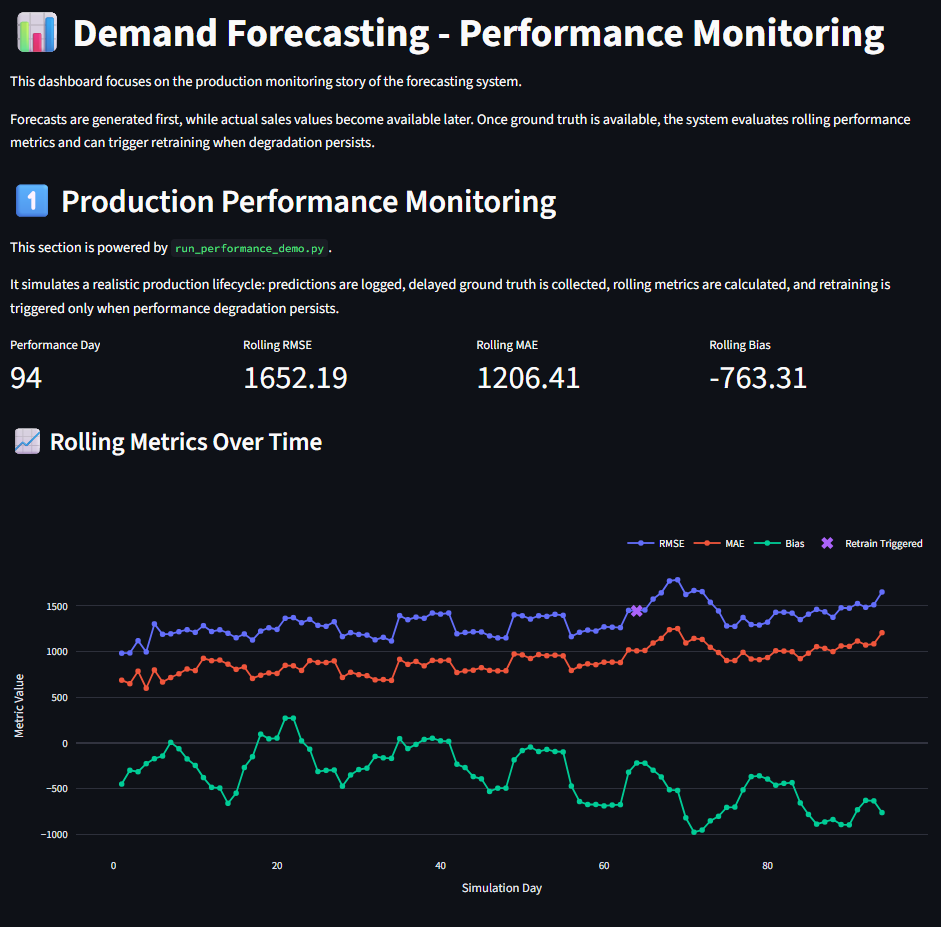
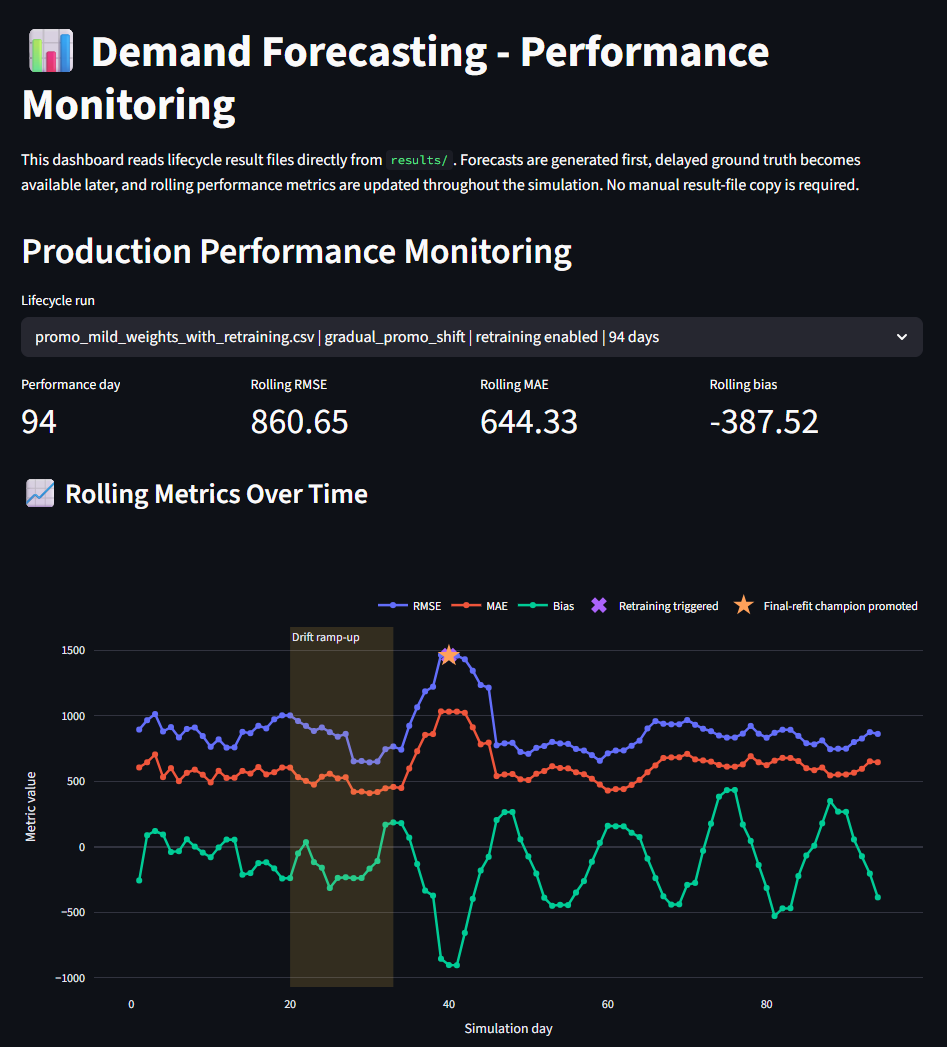
feat: integrate monitoring dashboard into local stack [skip ci]

diff --git a/README.md b/README.md
@@ -197,7 +197,10 @@ The pipeline automates:
 - API refresh after model promotion
 - retraining trigger evaluation
 
-Retraining can be triggered when monitoring detects quality degradation, feature drift or performance issues.
+In the controlled lifecycle demo, retraining is triggered by persistent
+forecast-performance degradation. The broader monitoring architecture also
+provides signals for feature drift and data-quality issues, which can be
+connected to additional retraining policies.
 
 ```mermaid
 flowchart LR
@@ -213,11 +216,11 @@ H --> I[Reload API]
 The candidate is first trained on the training split and compared with the
 current champion on untouched chronological validation data. If the candidate
 wins, a separate final model is refitted on both training and validation data.
-Only this final-refit model is registered as the new champion and loaded by the
-serving API.
+Only the accepted final-refit model receives the champion alias and is loaded
+by the serving API.
 
 During drift retraining, recent promotional observations receive higher sample
-weights. The current policy uses weights of 10, 5 and 2 for promotional
+weights. The current policy uses weights of 5, 3 and 1.5 for promotional
 observations from the most recent 30, 60 and 120 days. All other observations
 retain the default weight of 1.
 
@@ -228,6 +231,52 @@ retain the default weight of 1.
 <p align="center">
   <em>Prefect flow run for the end-to-end demand forecasting pipeline, including drift checks, feature processing, model training, evaluation, registration and API refresh.</em>
 </p>  
+
+---
+
+# 🧪 Time-Aware Model Development
+
+Forecasting models must be evaluated without using future observations during
+training. The project therefore includes walk-forward backtesting with
+chronologically expanding training windows and later validation periods.
+
+The model-development process included:
+
+- forecasting-specific calendar and holiday features
+- lag and rolling demand features
+- chronological walk-forward validation
+- Optuna-based XGBoost hyperparameter tuning
+- evaluation on the original sales scale
+- RMSE, MAE, WMAPE, RMSPE and bias reporting
+
+Walk-forward mean RMSE improved across the model-development stages:
+
+| Model stage | Mean RMSE |
+|---|---:|
+| Initial baseline | 792.37 |
+| Calendar features | 748.31 |
+| Tuned XGBoost model | 690.49 |
+
+Compared with the initial baseline, the tuned model reduces mean walk-forward
+RMSE by approximately 12.9%.
+
+Run the backtest with:
+
+'''bash
+uv run python scripts/run_model_backtest.py \
+  --output-directory results/model_backtest
+'''
+
+Hyperparameter studies can be executed with:
+
+'''bash
+uv run python scripts/tune_model.py \
+  --trials 20 \
+  --folds 2 3
+'''
+
+The tuning folds are intentionally separated from the final four-fold
+walk-forward evaluation to reduce selection bias.
 
 ---
 
@@ -339,14 +388,53 @@ The project therefore includes monitoring logic for:
 
 This mirrors a common real-world forecasting setup: predictions are generated first, while actual sales values become available later and can then be used to evaluate model quality.
 
-The Streamlit dashboard visualizes rolling RMSE, MAE and bias over simulated production days. It also highlights automated retraining triggers and gated champion promotion, where a challenger model is only promoted if it improves over the existing champion.
+## Production Performance Monitoring
+
+The first dashboard view presents the operational monitoring state of one
+selected lifecycle run. It shows rolling RMSE, MAE and bias, the configured
+drift ramp-up period, the retraining trigger and the final-refit champion
+promotion.
+
+Lifecycle result files are discovered automatically under `results/`. The
+dashboard therefore supports completed and partially running simulations
+without requiring manual file copies or changes to the dashboard code.
 
 <p align="center">
-  <img src="docs/images/streamlit_dashboard.png" width="100%">
+  <img src="docs/images/streamlit_dashboard.png" width="90%">
 </p>
 
 <p align="center">
-  <em>Forecast performance monitoring dashboard showing rolling metrics, automated retraining triggers and gated champion/challenger promotion.</em>
+  <em>
+    Production monitoring view for the mild recency-weighted lifecycle run.
+    The dashboard displays rolling forecast metrics, the controlled drift
+    period, the retraining event and final-refit champion promotion.
+  </em>
+</p>
+
+---
+
+## Interactive Retraining Comparison
+
+The second dashboard view compares matching lifecycle runs with and without
+automated retraining. Both variants use the same drift scenario, simulation
+parameters, initial champion and ground truth.
+
+The interactive selectors make it possible to compare different preserved
+lifecycle runs without regenerating dashboard-specific input files.
+
+<p align="center">
+  <img
+    src="docs/images/streamlit_retraining_comparison.png"
+    width="90%"
+  >
+</p>
+
+<p align="center">
+  <em>
+    Interactive rolling-RMSE comparison between the static no-retraining
+    baseline and the adaptive pipeline using mild recency weighting and a
+    final refit.
+  </em>
 </p>
 
 ---
@@ -362,20 +450,70 @@ The simulation gradually reduces the sales effect of promotions by 25%:
 - drift starts on simulation day 20
 - full drift strength is reached after 14 days
 - retraining is triggered on day 40
-- recent promotional observations receive recency weights of 10, 5 and 2
+- recent promotional observations receive recency weights of 5, 3 and 1.5
 - the accepted candidate is refitted on all available training and validation
   observations before promotion
 - both variants use identical ground truth and the same initial champion model
 
+### Reproducing the experiment
+
+The comparison requires two lifecycle runs with identical ground truth,
+simulation parameters and initial champion model.
+
+Run the static variant without automated retraining:
+
+'''bash
+docker compose exec api \
+  uv run --no-sync python scripts/run_performance_demo.py \
+  --scenario gradual_promo_shift \
+  --retraining disabled \
+  --output-file results/promo_weighted_without_retraining.csv \
+  --drift-start-day 20 \
+  --drift-duration-days 14 \
+  --maximum-base-uplift 0.0 \
+  --maximum-promo-uplift -0.25
+'''
+
+After restoring the same initial demo baseline, run the adaptive variant:
+
+'''bash
+docker compose exec api \
+  uv run --no-sync python scripts/run_performance_demo.py \
+  --scenario gradual_promo_shift \
+  --retraining enabled \
+  --output-file results/promo_mild_weights_with_retraining.csv \
+  --drift-start-day 20 \
+  --drift-duration-days 14 \
+  --maximum-base-uplift 0.0 \
+  --maximum-promo-uplift -0.25
+'''
+
+Generate the final offline comparison with:
+
+'''bash
+uv run python scripts/plot_retraining_comparison.py
+'''
+
+The no-retraining and retraining variants must start from the same champion
+and simulation baseline. Otherwise, differences cannot be attributed solely
+to automated retraining.
+
+
+The interactive dashboard focuses on lifecycle monitoring and rolling metrics.
+For the final offline model-quality evaluation, preserved prediction and
+ground-truth records are evaluated at row level and segmented into all open,
+promotional and non-promotional stores.
+
+
 <p align="center">
-  <img src="docs/images/promo_final_refit_comparison.png" width="100%">
+  <img src="docs/images/promo_mild_weights_comparison.png" width="100%">
 </p>
 
 <p align="center">
   <em>
-    Forecast performance under controlled promo-effect drift. The upper panel
-    shows rolling RMSE over the simulated production lifecycle, while the lower
-    panel compares post-promotion RMSE by forecast segment.
+    Final controlled evaluation. The upper panel shows rolling RMSE over time,
+    while the lower panel compares post-promotion row-level RMSE across
+    business-relevant forecast segments.
   </em>
 </p>
 
@@ -383,18 +521,18 @@ The simulation gradually reduces the sales effect of promotions by 25%:
 
 | Segment | Without retraining RMSE | With final-refit retraining RMSE | Relative RMSE change |
 |---|---:|---:|---:|
-| All open stores | 915.73 | 893.48 | -2.4% |
-| Promotional stores | 1,032.02 | 969.38 | -6.1% |
-| Non-promotional stores | 824.74 | 836.33 | +1.4% |
+| All open stores | 915.73 | 893.48 | -2.43% |
+| Promotional stores | 1,032.02 | 969.38 | -6.07% |
+| Non-promotional stores | 824.74 | 836.33 | +1.41% |
 
 A negative relative RMSE change indicates lower forecast error and therefore
 better performance. A positive value indicates higher forecast error.
 
-Across all open stores, final-refit retraining reduces RMSE by 2.7%.
+Across all open stores, final-refit retraining reduces RMSE by 2.43%.
 For promotional observations, which are directly affected by the simulated
-concept drift, RMSE improves by 7.9%. The non-promotional segment becomes 2.7%
-worse, demonstrating a measurable trade-off between adaptation to the changed
-promotion effect and stability in unaffected observations.
+concept drift, RMSE improves by 6.07%. The non-promotional segment becomes
+1.41% worse, demonstrating a measurable trade-off between adaptation to the
+changed promotion effect and stability in unaffected observations.
 
 Additional post-promotion metrics also improve overall:
 
@@ -504,16 +642,33 @@ After starting the local Docker Compose stack and running the initial training p
 make demo-forecasting-lifecycle
 ```
 
-This runs the lifecycle simulation and demonstrates how forecasts are generated, logged, evaluated and used for retraining decision support.
+Each lifecycle run writes its monitoring history directly to the output file
+specified for the simulation, for example:
 
-The resulting performance history is stored under:
+'''text
+results/promo_mild_weights_with_retraining.csv
+'''
 
-```text
-results/performance_demo_history.csv
-```
-The generated history is used by the Streamlit monitoring dashboard to visualize rolling forecast metrics, retraining events and champion promotion decisions.
+The Streamlit dashboard automatically discovers compatible lifecycle result
+files under `results/`. Completed and partially running simulations can
+therefore be inspected without copying or renaming result files.
 
-The demo helps illustrate how the forecasting system can be monitored after deployment and how performance signals can support retraining decisions.
+The dashboard provides:
+
+- operational monitoring for one selected lifecycle run
+- rolling RMSE, MAE and bias
+- drift ramp-up visualization
+- retraining and final-refit promotion events
+- interactive comparison of matching runs with and without retraining
+
+Open the Streamlit monitoring dashboard at:
+
+'''text
+http://localhost:8501
+'''
+
+Because the local `results/` directory is mounted into the API container,
+lifecycle output becomes available to the dashboard immediately.
 
 ---
 
@@ -572,6 +727,22 @@ The demo helps illustrate how the forecasting system can be monitored after depl
 └── .github/workflows/     # CI/CD pipeline
 ```
 
+Key experiment and visualization files include:
+
+'''text
+scripts/
+├── run_model_backtest.py
+├── tune_model.py
+├── run_performance_demo.py
+├── simulate_ground_truth.py
+└── plot_retraining_comparison.py
+
+docs/images/
+├── streamlit_dashboard.png
+├── streamlit_retraining_comparison.png
+└── promo_mild_weights_comparison.png
+'''
+
 ---
 
 # ⚡ Quick Start
@@ -615,14 +786,17 @@ Set required variables:
 make dev-up
 ```
 
-This starts:
+The local services are available at:
 
-* FastAPI
-* MLflow
-* Prefect
-* PostgreSQL
-* Prometheus
-* Grafana
+| Service | Local URL |
+|---|---|
+| Forecasting API | http://localhost:8000 |
+| Swagger UI | http://localhost:8000/docs |
+| Streamlit dashboard | http://localhost:8501 |
+| MLflow | http://localhost:5000 |
+| Prefect | http://localhost:4221 |
+| Grafana | http://localhost:3000 |
+| Prometheus | http://localhost:9090 |
 
 ---
 
@@ -652,11 +826,15 @@ uv run uvicorn src.api.app:app --host 0.0.0.0 --port 8080
 
 ---
 
-## 6⃣ Run tests
+## 6⃣ Run quality checks
 
-```bash
-pytest tests -v
-```
+'''bash
+make test
+make lint
+'''
+
+The test suite covers training, inference, feature engineering, monitoring and
+lifecycle behavior. Ruff is used for static code-quality checks.
 
 ---
 
@@ -674,21 +852,21 @@ The platform follows a configuration-driven architecture.
 
 ## Environment switching
 
-```bash
-APP_ENV=dev
-APP_ENV=prod
-```
+Local Make targets run the containerized stack in development mode. The
+development lifecycle commands explicitly set `APP_ENV=dev` and use the local
+MLflow, Prefect and API service addresses.
 
-Configuration values can be injected through:
+Production helper targets set `APP_ENV=prod` and connect to the configured
+cloud services. For example:
 
-* YAML config files
-* environment variables
-* GitHub Actions variables
-* GitHub Actions secrets
-* GCP deployment configuration
+'''bash
+make train-force-prod
+'''
 
-This enables reproducible deployments across local, staging and production-style environments.
-
+`APP_ENV` selects the environment-specific YAML configuration. Environment
+variables such as API URLs, credentials and service endpoints remain
+independent configuration inputs and are not automatically ignored merely
+because development mode is active.
 ---
 
 # ☁ Deployment
@@ -865,7 +1043,7 @@ For a real enterprise deployment, I would additionally consider:
 - broader multi-scenario drift backtesting
 - external event calendars for local and business-specific events
 - shadow model evaluation or canary deployment
-- advanced backtesting workflows
+- broader multi-horizon and multi-scenario backtesting
 - richer forecast explainability
 - hierarchical forecasting support
 - probabilistic forecasts and prediction intervals
